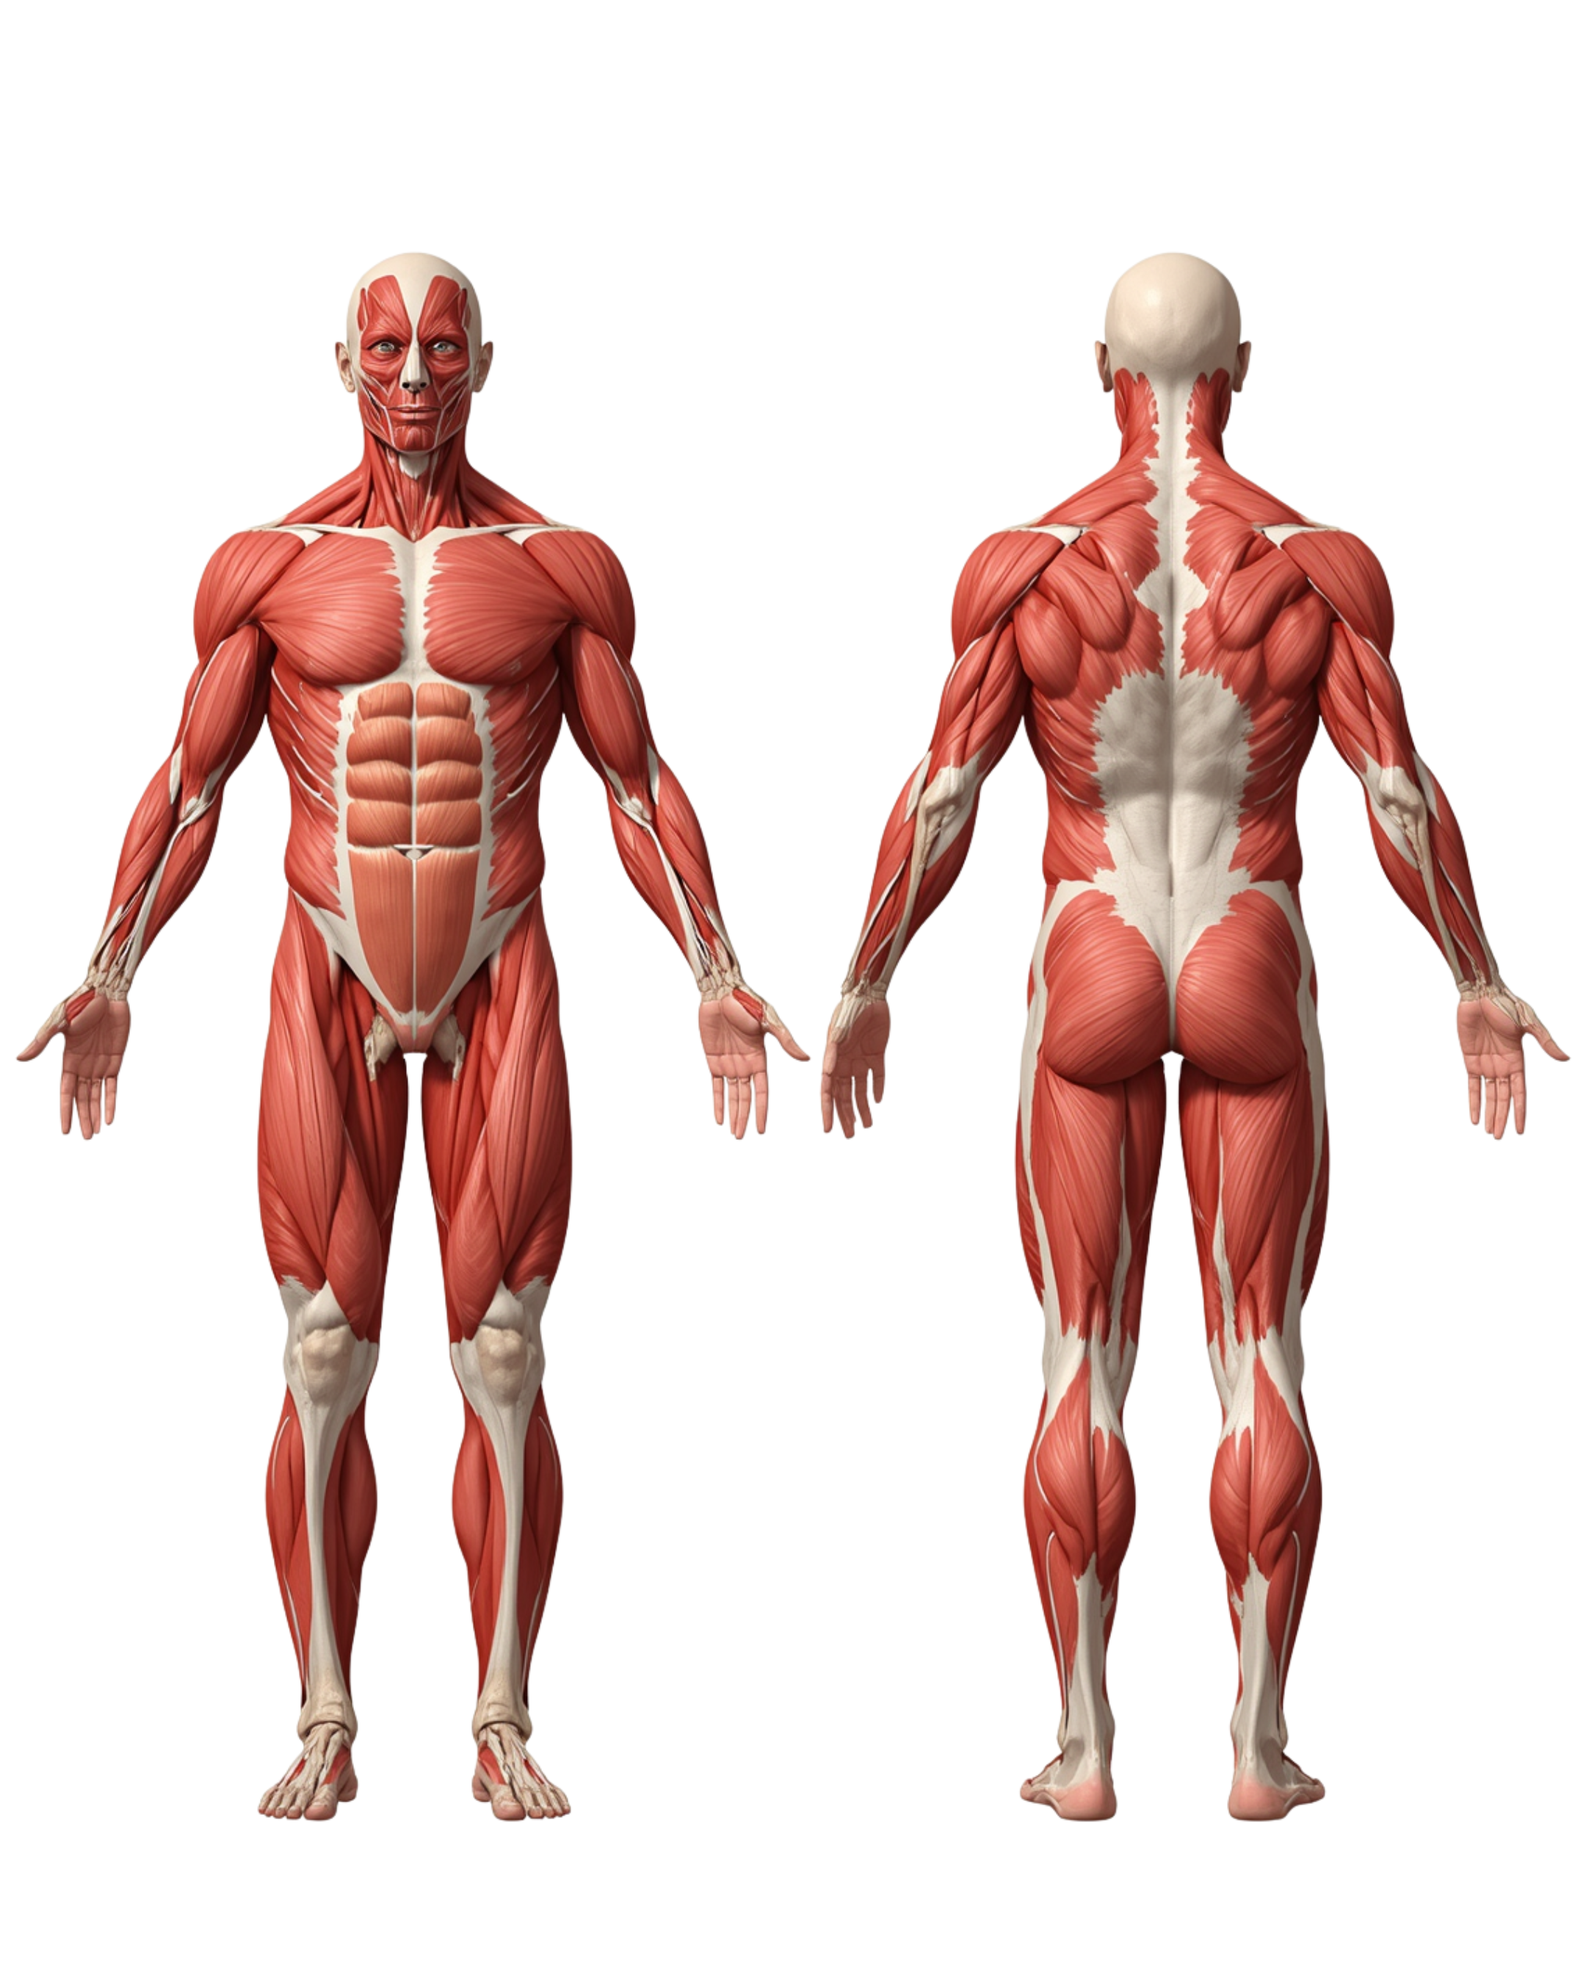
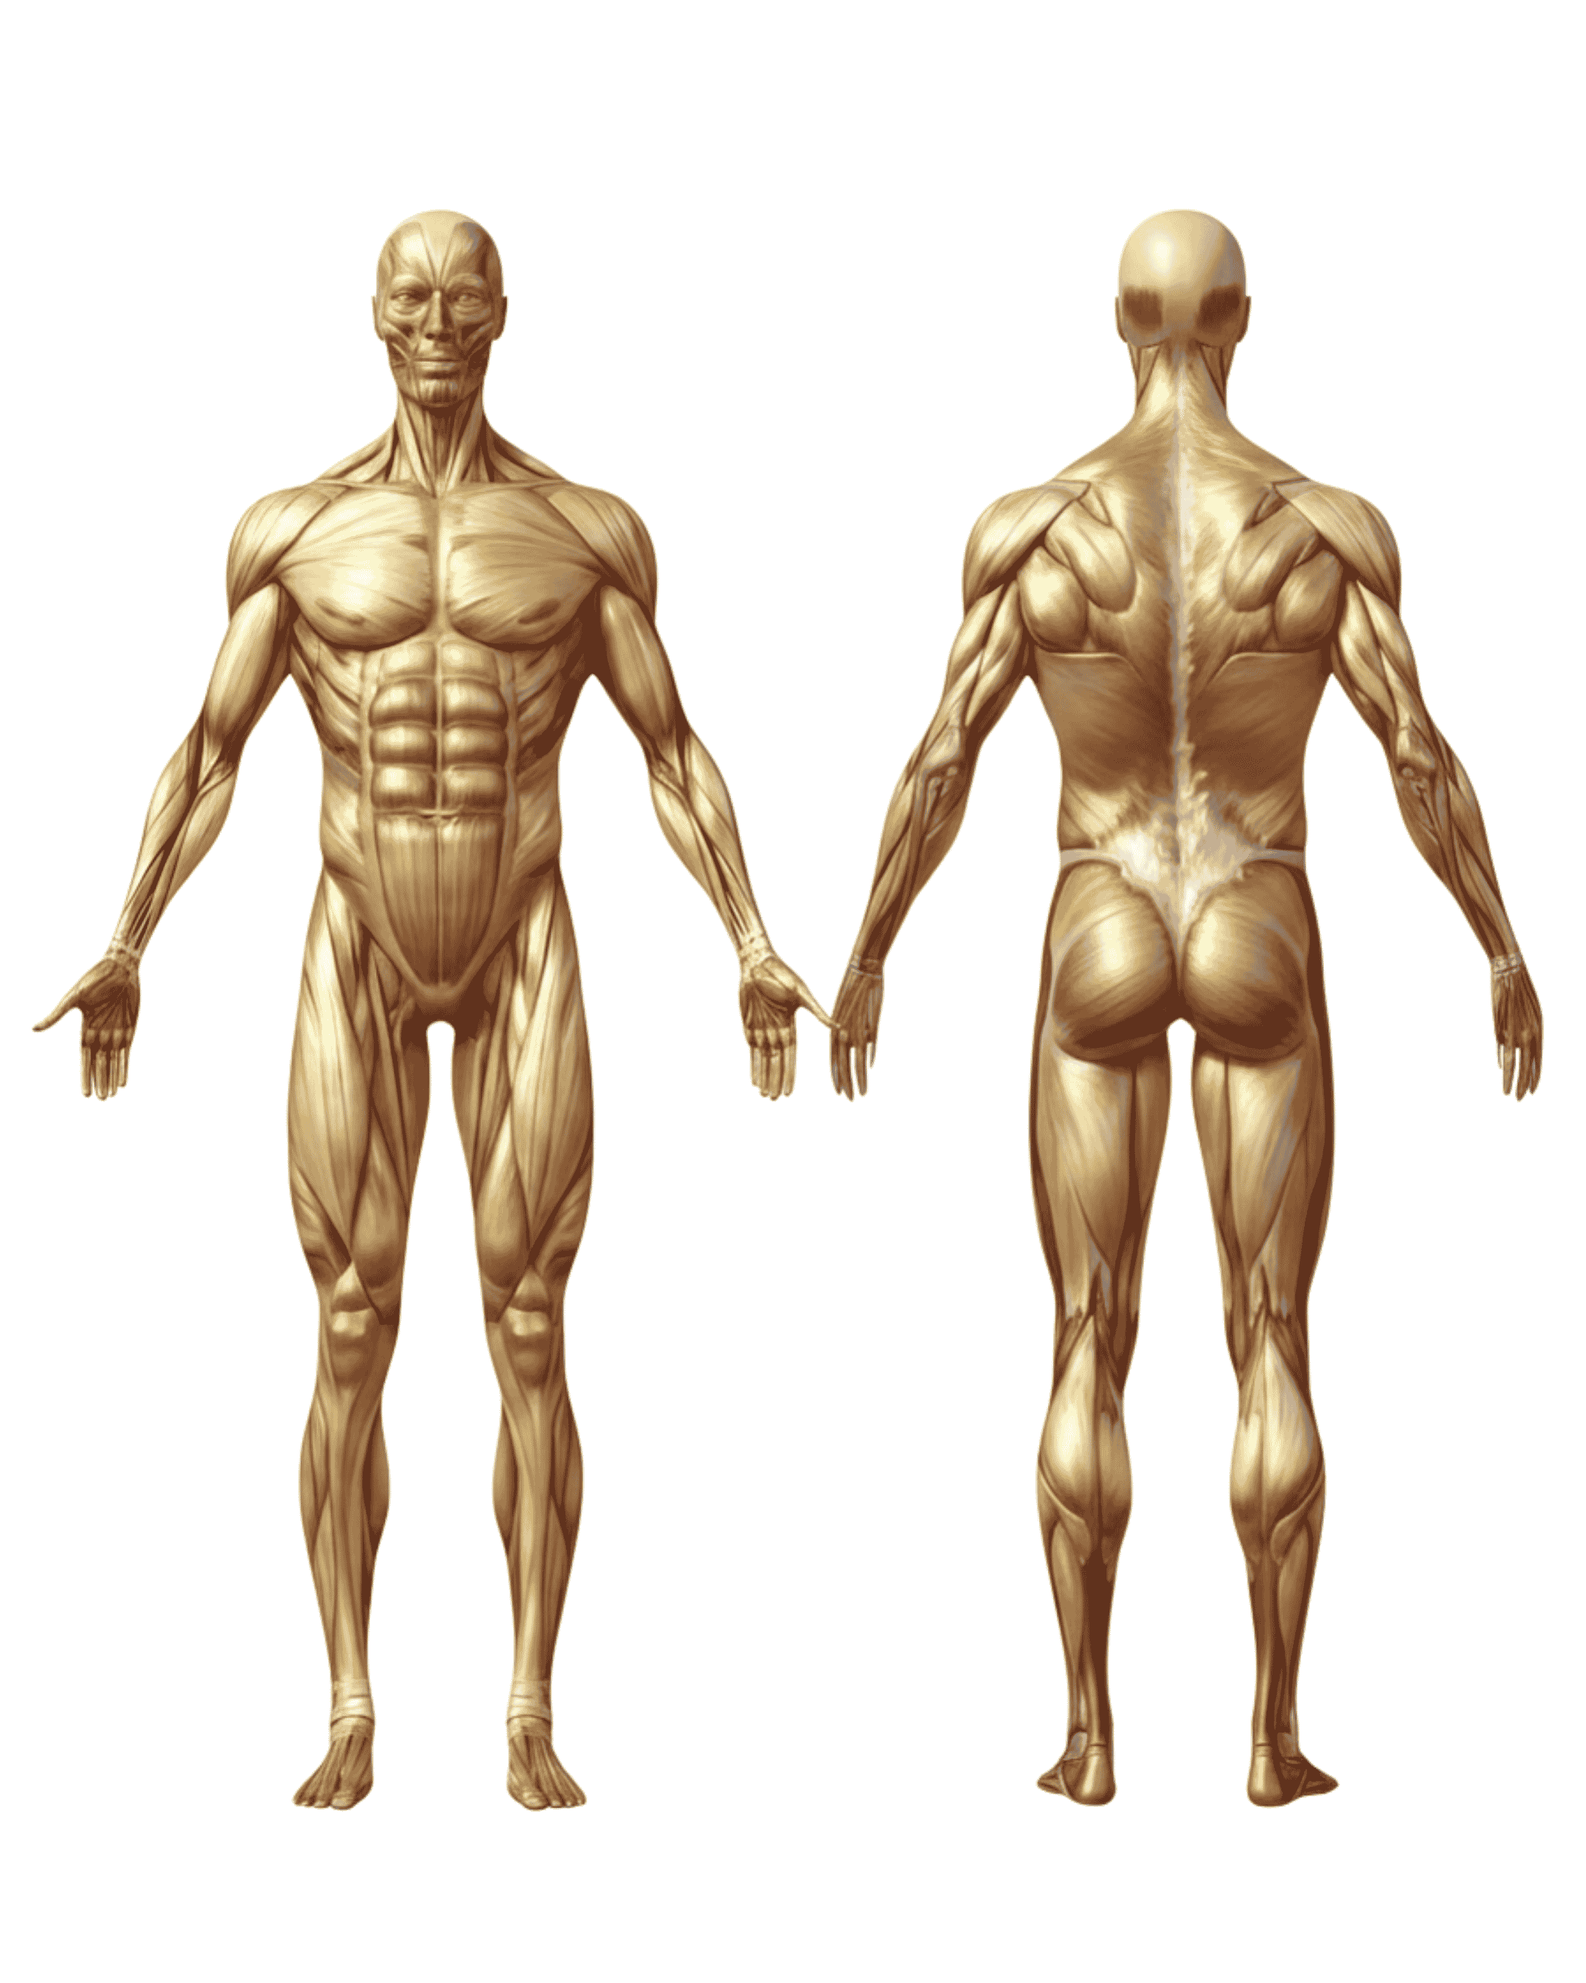
Restored perfect side-by-side interactive body diagram

Changed region(s): [[0.0, 0.0933, 0.9926, 0.9333]]

diff --git a/app/waiver/page.tsx b/app/waiver/page.tsx
@@ -1,15 +1,12 @@
 'use client'
 
-// app/waiver/page.tsx — UNIFIED MASTER WAIVER
-// GORGEOUS, REALISTIC ANATOMY, FIXED CONDITIONS, UNIFIED FONTS, DATABASE READY
-
 export const dynamic = 'force-dynamic'
 
 import { useState, useRef, FormEvent } from 'react'
 import { createClient, type SupabaseClient } from '@supabase/supabase-js'
 
 // ─────────────────────────────────────────────────────────────
-// DESIGN TOKENS (Shared fonts and colours with other pages)
+// DESIGN TOKENS
 // ─────────────────────────────────────────────────────────────
 const BG = '#F9F4EB'
 const BLACK = '#1A1A1A'
@@ -36,24 +33,22 @@ const LABEL: React.CSSProperties = {
 }
 
 // ─────────────────────────────────────────────────────────────
-// DATA SETS (Anatomically mapped based on guide)
+// ALL INTERACTIVE ZONES (Mapped for Side-By-Side Image)
 // ─────────────────────────────────────────────────────────────
-const FRONT_ZONES = [
-  { id: 'Neck & Cervical', top: '10%', left: '40%', width: '20%', height: '10%' },
-  { id: 'Deltoids (Shoulders)', top: '22%', left: '20%', width: '60%', height: '12%' },
-  { id: 'Pectorals (Chest)', top: '35%', left: '30%', width: '40%', height: '15%' },
-  { id: 'Biceps & Triceps (Arms)', top: '35%', left: '15%', width: '15%', height: '25%' },
-  { id: 'Forearms & Hands', top: '60%', left: '10%', width: '15%', height: '20%' },
-  { id: 'Feet & Ankles', top: '85%', left: '30%', width: '40%', height: '10%' },
-]
+const INTERACTIVE_ZONES = [
+  // FRONT BODY (Left side)
+  { id: 'Neck & Cervical', top: '10%', left: '21%', width: '8%', height: '6%' },
+  { id: 'Pectorals (Chest)', top: '22%', left: '15%', width: '20%', height: '12%' },
+  { id: 'Biceps & Triceps (Arms)', top: '35%', left: '8%', width: '34%', height: '15%' },
+  { id: 'Forearms & Hands', top: '50%', left: '4%', width: '42%', height: '15%' },
 
-const BACK_ZONES = [
-  { id: 'Neck & Cervical', top: '10%', left: '40%', width: '20%', height: '10%' },
-  { id: 'Trapezius (Upper Back)', top: '22%', left: '30%', width: '40%', height: '15%' },
-  { id: 'Deltoids (Shoulders)', top: '22%', left: '20%', width: '60%', height: '12%' },
-  { id: 'Lats & Rhomboids (Upper Back)', top: '38%', left: '30%', width: '40%', height: '15%' },
-  { id: 'Lumbar (Lower Back)', top: '55%', left: '35%', width: '30%', height: '15%' },
-  { id: 'Calves', top: '70%', left: '30%', width: '40%', height: '15%' },
+  // BACK BODY (Right side)
+  { id: 'Trapezius (Upper Back)', top: '18%', left: '65%', width: '20%', height: '10%' },
+  { id: 'Deltoids (Shoulders)', top: '20%', left: '58%', width: '34%', height: '10%' },
+  { id: 'Lats & Rhomboids (Upper Back)', top: '30%', left: '65%', width: '20%', height: '15%' },
+  { id: 'Lumbar (Lower Back)', top: '45%', left: '67%', width: '16%', height: '10%' },
+  { id: 'Calves', top: '75%', left: '64%', width: '22%', height: '15%' },
+  { id: 'Feet & Ankles', top: '90%', left: '64%', width: '22%', height: '6%' },
 ]
 
 const HEALTH_CONDITIONS_LIST = [
@@ -97,7 +92,6 @@ export default function WaiverPage() {
   const [name, setName] = useState('')
   const [selectedAreas, setSelectedAreas] = useState<Set<string>>(new Set())
   const [selectedConditions, setSelectedConditions] = useState<Set<string>>(new Set())
-  const [view, setView] = useState<'FRONT' | 'BACK'>('FRONT')
 
   const [loading, setLoading] = useState(false)
   const [submitted, setSubmitted] = useState(false)
@@ -129,7 +123,6 @@ export default function WaiverPage() {
     const conditionsArray = Array.from(selectedConditions).join(', ')
 
     try {
-      // ⚠ IMPORTANT: Ensure your Supabase has a 'waivers' table with 'client_name', 'focus_areas', 'health_conditions', 'date_signed'
       const { error } = await supabase.from('waivers').insert({
         client_name: name.trim(),
         focus_areas: areasArray || 'None',
@@ -145,8 +138,6 @@ export default function WaiverPage() {
       setLoading(false)
     }
   }
-
-  const activeZones = view === 'FRONT' ? FRONT_ZONES : BACK_ZONES
 
   if (submitted) return (
     <div style={{ backgroundColor: BG, minHeight: '100dvh', padding: '100px 20px', textAlign: 'center', fontFamily: BODY }}>
@@ -164,7 +155,7 @@ export default function WaiverPage() {
       `}</style>
 
       <div style={{ backgroundColor: BG, minHeight: '100dvh', padding: '40px 20px', fontFamily: BODY }}>
-        <div style={{ maxWidth: 800, margin: '0 auto', display: 'flex', flexDirection: 'column', gap: 24 }}>
+        <div style={{ maxWidth: 900, margin: '0 auto', display: 'flex', flexDirection: 'column', gap: 24 }}>
 
           <div style={{ textAlign: 'center', marginBottom: 12 }}>
             <p style={{ fontSize: 10, fontWeight: 700, letterSpacing: '0.20em', color: GOLD, margin: '0 0 10px', textTransform: 'uppercase' }}>Client Consent</p>
@@ -180,49 +171,53 @@ export default function WaiverPage() {
               </div>
             </Section>
 
-            {/* ── INTERACTIVE BODY MAP SECTION ── */}
-            <Section title="Body Focus Areas" note="Select specific muscular zones">
-              <div style={{ display: 'flex', gap: 24, flexWrap: 'wrap', alignItems: 'flex-start' }}>
+            {/* ── GORGEOUS, SIDE-BY-SIDE BODY MAP SECTION ── */}
+            <Section title="Body Focus Areas" note="Tap directly on the specific muscular zones">
+              <div style={{ display: 'flex', gap: 30, flexWrap: 'wrap', alignItems: 'center' }}>
 
-                {/* Photorealistic Interactive Map Graphic */}
-                <div style={{ flex: '1 1 250px', display: 'flex', flexDirection: 'column', alignItems: 'center', gap: 16 }}>
-                  <div style={{ display: 'flex', backgroundColor: '#f5f5f5', borderRadius: 8, padding: 4 }}>
-                    <button type="button" onClick={() => setView('FRONT')} style={{ padding: '6px 16px', fontSize: 12, fontWeight: 700, borderRadius: 6, border: 'none', backgroundColor: view === 'FRONT' ? WHITE : 'transparent', color: view === 'FRONT' ? BLACK : '#888', cursor: 'pointer', boxShadow: view === 'FRONT' ? '0 2px 6px rgba(0,0,0,0.05)' : 'none', transition: 'all 0.2s' }}>FRONT</button>
-                    <button type="button" onClick={() => setView('BACK')} style={{ padding: '6px 16px', fontSize: 12, fontWeight: 700, borderRadius: 6, border: 'none', backgroundColor: view === 'BACK' ? WHITE : 'transparent', color: view === 'BACK' ? BLACK : '#888', cursor: 'pointer', boxShadow: view === 'BACK' ? '0 2px 6px rgba(0,0,0,0.05)' : 'none', transition: 'all 0.2s' }}>BACK</button>
-                  </div>
+                {/* Image & Hotspots Container */}
+                <div style={{ flex: '1 1 400px', position: 'relative', width: '100%', maxWidth: 500, margin: '0 auto', backgroundColor: '#FAFAFA', border: '1px solid #EAEAEA', borderRadius: 16, overflow: 'hidden', display: 'flex', justifyContent: 'center' }}>
 
-                  <div style={{ position: 'relative', width: 220, height: 400, backgroundColor: '#FAFAFA', border: '1px solid #EAEAEA', borderRadius: 12, perspective: '1000px', overflow: 'hidden' }}>
-                    {/* Base Body Sculpture Asset */}
-                    <img src="/anatomy.png" style={{ position: 'absolute', top: 0, left: 0, width: '100%', height: '100%', objectFit: 'contain', opacity: 0.15 }} />
+                  {/* IMPORTANT: Ensure your image is named exactly muscular-body.png in the public folder */}
+                  <img
+                    src="/muscular-body.png"
+                    alt="Muscular Anatomy"
+                    style={{ width: '100%', height: 'auto', display: 'block', objectFit: 'contain' }}
+                  />
 
-                    {/* Interactive HUD-style hotspots */}
-                    {activeZones.map((zone) => {
-                      const isSelected = selectedAreas.has(zone.id)
-                      return (
-                        <button
-                          key={zone.id} type="button" onClick={() => toggleArea(zone.id)} title={zone.id}
-                          style={{
-                            position: 'absolute', top: zone.top, left: zone.left, width: zone.width, height: zone.height,
-                            backgroundColor: isSelected ? 'rgba(197,143,59,0.7)' : 'rgba(26,26,26,0.1)',
-                            border: `2px solid ${isSelected ? GOLD : 'transparent'}`, borderRadius: '12px', cursor: 'pointer',
-                            backdropFilter: 'blur(2px)', transform: isSelected ? 'scale(1.15) translateZ(20px)' : 'scale(1) translateZ(0)',
-                            boxShadow: isSelected ? '0 10px 20px rgba(197,143,59,0.3)' : 'none',
-                            transition: 'all 0.3s cubic-bezier(0.175, 0.885, 0.32, 1.275)', zIndex: isSelected ? 10 : 1
-                          }}
-                        />
-                      )
-                    })}
-                  </div>
+                  {/* Interactive HUD-style hotspots */}
+                  {INTERACTIVE_ZONES.map((zone) => {
+                    const isSelected = selectedAreas.has(zone.id)
+
+                    // 🚨 CALIBRATION: Change 0.0 to 0.4 red here to see the boxes temporarily! 
+                    const unselectedColor = 'rgba(255, 0, 0, 0.0)';
+
+                    return (
+                      <button
+                        key={zone.id} type="button" onClick={() => toggleArea(zone.id)} title={zone.id}
+                        style={{
+                          position: 'absolute', top: zone.top, left: zone.left, width: zone.width, height: zone.height,
+                          backgroundColor: isSelected ? 'rgba(197,143,59,0.5)' : unselectedColor,
+                          border: `2px solid ${isSelected ? GOLD : 'transparent'}`, borderRadius: '16px', cursor: 'pointer',
+                          transform: isSelected ? 'scale(1.05)' : 'scale(1)',
+                          boxShadow: isSelected ? '0 10px 25px rgba(197,143,59,0.4)' : 'none',
+                          transition: 'all 0.3s cubic-bezier(0.175, 0.885, 0.32, 1.275)', zIndex: 10
+                        }}
+                      />
+                    )
+                  })}
                 </div>
 
-                {/* Selected Areas List (Font standardized to Health Conditions) */}
-                <div style={{ flex: '1 1 300px', display: 'flex', flexDirection: 'column', gap: 10 }}>
+                {/* Selected Areas List */}
+                <div style={{ flex: '1 1 250px', display: 'flex', flexDirection: 'column', gap: 10 }}>
                   <p style={{ fontSize: 11, fontWeight: 700, letterSpacing: '0.1em', textTransform: 'uppercase', color: '#888', margin: '0 0 8px' }}>Selected Focus Areas:</p>
                   {Array.from(selectedAreas).length === 0 ? (
-                    <p style={{ fontSize: 13, color: '#aaa', fontStyle: 'italic' }}>Tap the diagram to select areas.</p>
+                    <div style={{ padding: '20px', backgroundColor: '#fafafa', border: '1px dashed #ddd', borderRadius: 10, textAlign: 'center' }}>
+                      <p style={{ fontSize: 13, color: '#aaa', fontStyle: 'italic', margin: 0 }}>Tap the diagram to select areas.</p>
+                    </div>
                   ) : (
                     Array.from(selectedAreas).map(area => (
-                      <div key={area} onClick={() => toggleArea(area)} style={{ padding: '14px 16px', backgroundColor: 'rgba(197,143,59,0.1)', border: '1.5px solid rgba(197,143,59,0.4)', borderRadius: 10, fontSize: 14, fontWeight: 600, fontFamily: BODY, color: BLACK, display: 'flex', justifyContent: 'space-between', alignItems: 'center', cursor: 'pointer' }}>
+                      <div key={area} onClick={() => toggleArea(area)} style={{ padding: '14px 16px', backgroundColor: 'rgba(197,143,59,0.08)', border: '1px solid rgba(197,143,59,0.4)', borderRadius: 10, fontSize: 14, fontWeight: 600, fontFamily: BODY, color: BLACK, display: 'flex', justifyContent: 'space-between', alignItems: 'center', cursor: 'pointer', transition: 'all 0.2s ease', boxShadow: '0 2px 8px rgba(197,143,59,0.1)' }}>
                         {area}
                         <span style={{ color: GOLD }}>✓</span>
                       </div>
@@ -232,7 +227,7 @@ export default function WaiverPage() {
               </div>
             </Section>
 
-            {/* ── HEALTH CONDITIONS SECTION (FIXED Clickability, standardized Font) ── */}
+            {/* ── HEALTH CONDITIONS SECTION ── */}
             <Section title="Health Conditions" note="Please select all that apply">
               <div style={{ display: 'grid', gridTemplateColumns: 'repeat(auto-fill, minmax(200px, 1fr))', gap: 12 }}>
                 {HEALTH_CONDITIONS_LIST.map(cond => {
@@ -242,20 +237,19 @@ export default function WaiverPage() {
                       key={cond} type="button" onClick={() => toggleCondition(cond)}
                       style={{
                         padding: '14px 16px',
-                        backgroundColor: isSelected ? 'rgba(197,143,59,0.1)' : WHITE,
-                        border: `1.5px solid ${isSelected ? GOLD : 'rgba(26,26,26,0.13)'}`,
+                        backgroundColor: isSelected ? 'rgba(197,143,59,0.08)' : WHITE,
+                        border: `1px solid ${isSelected ? 'rgba(197,143,59,0.4)' : 'rgba(26,26,26,0.13)'}`,
                         borderRadius: 10,
-                        fontSize: 14, // standardized to Body Areas list
-                        fontWeight: 600, // standardized
-                        fontFamily: BODY, // standardized
+                        fontSize: 14,
+                        fontWeight: 600,
+                        fontFamily: BODY,
                         color: isSelected ? BLACK : 'rgba(26,26,26,0.75)',
                         display: 'flex', justifyContent: 'space-between', alignItems: 'center',
                         cursor: 'pointer', textAlign: 'left', transition: 'all 150ms ease',
-                        boxShadow: isSelected ? '0 2px 8px rgba(197,143,59,0.15)' : 'none'
+                        boxShadow: isSelected ? '0 2px 8px rgba(197,143,59,0.1)' : 'none'
                       }}
                     >
                       {cond}
-                      {/* Custom styled checkbox UI */}
                       <div style={{ width: 18, height: 18, borderRadius: 4, border: `1.5px solid ${isSelected ? GOLD : '#ccc'}`, backgroundColor: isSelected ? GOLD : 'transparent', display: 'flex', alignItems: 'center', justifyContent: 'center' }}>
                         {isSelected && <svg width="10" height="10" viewBox="0 0 10 10" fill="none"><path d="M1.5 5l2.5 2.5 4.5-4.5" stroke={WHITE} strokeWidth="2" strokeLinecap="round" strokeLinejoin="round" /></svg>}
                       </div>
